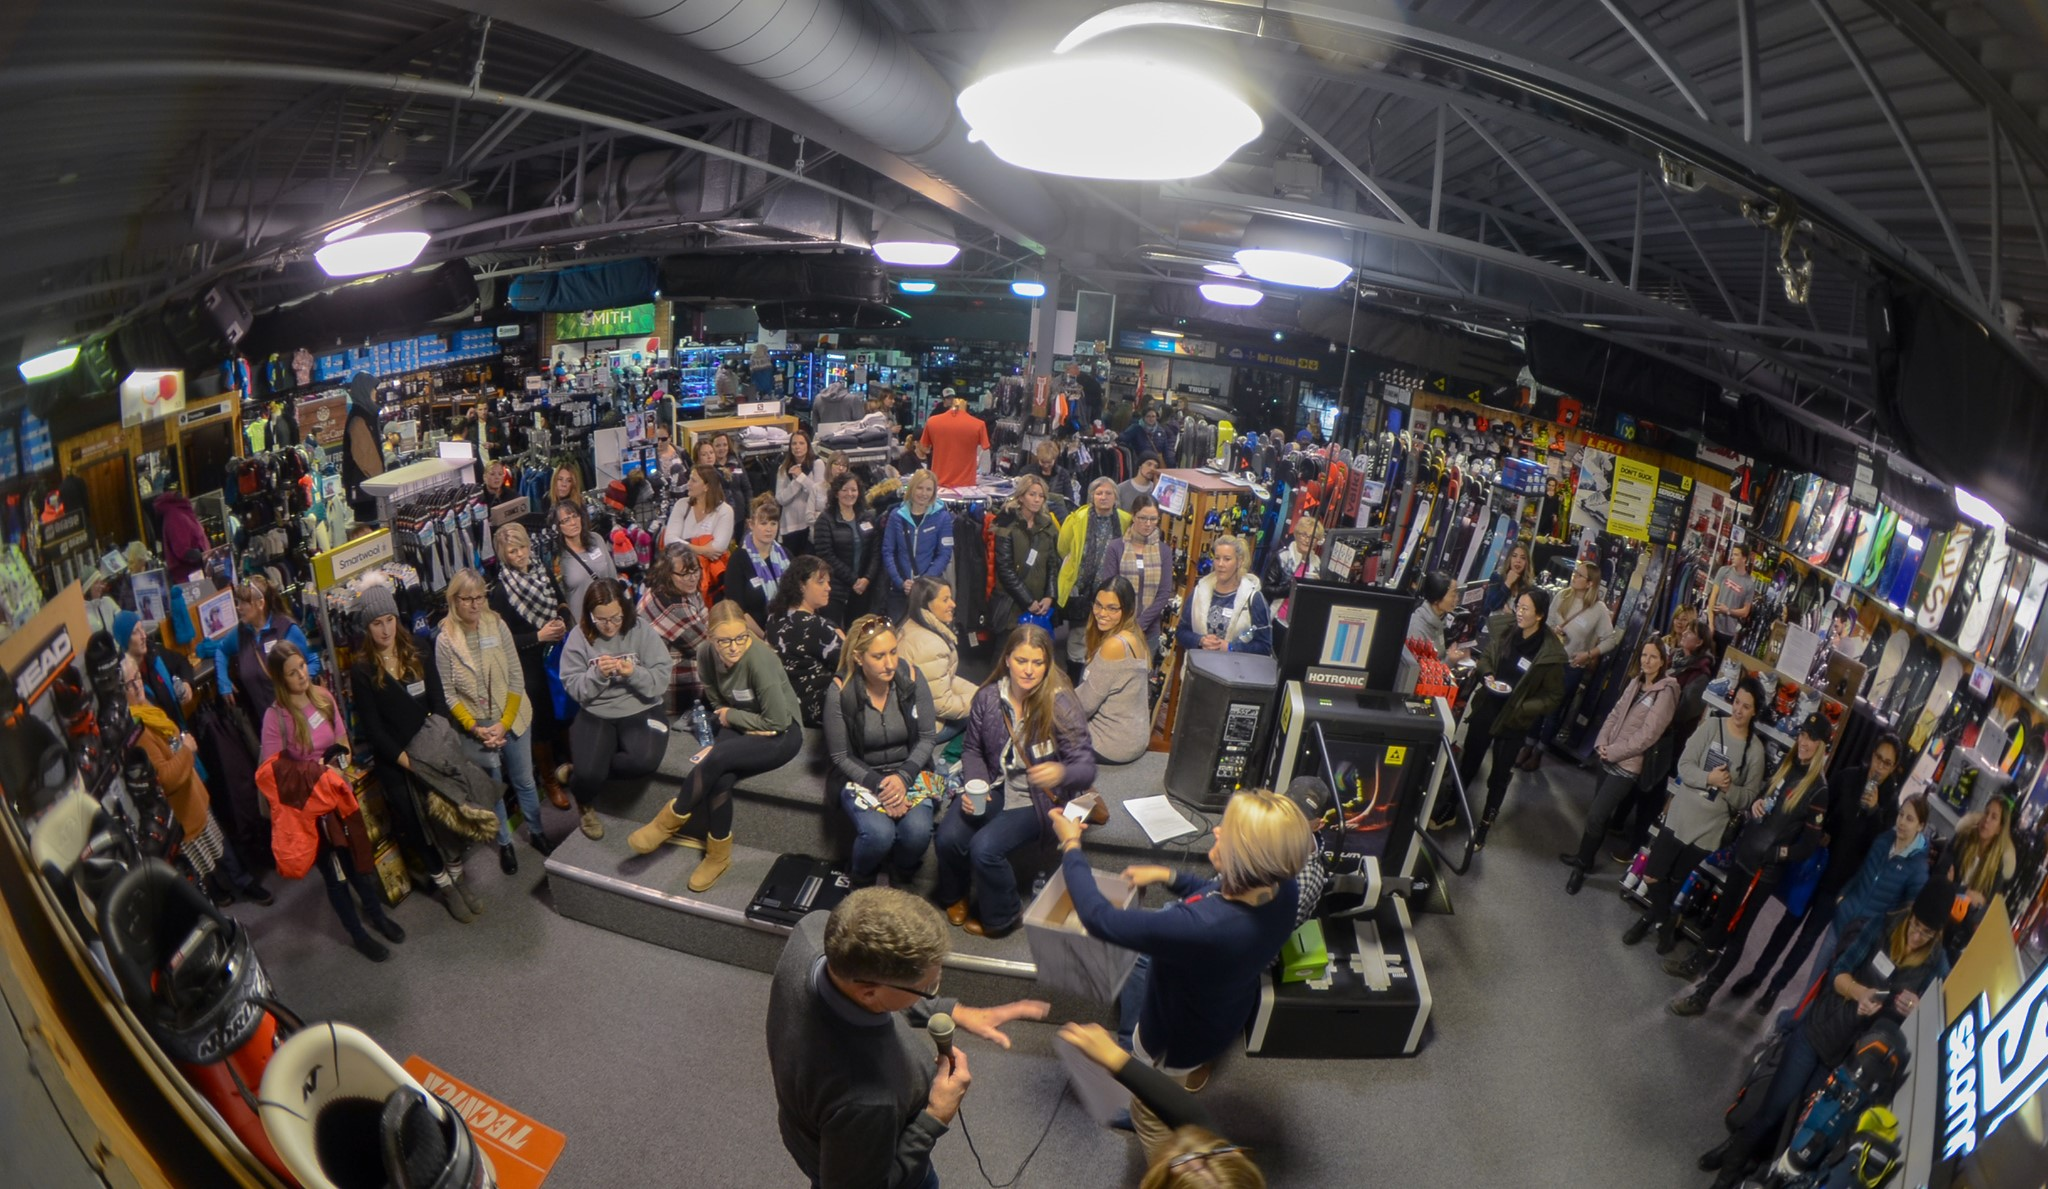
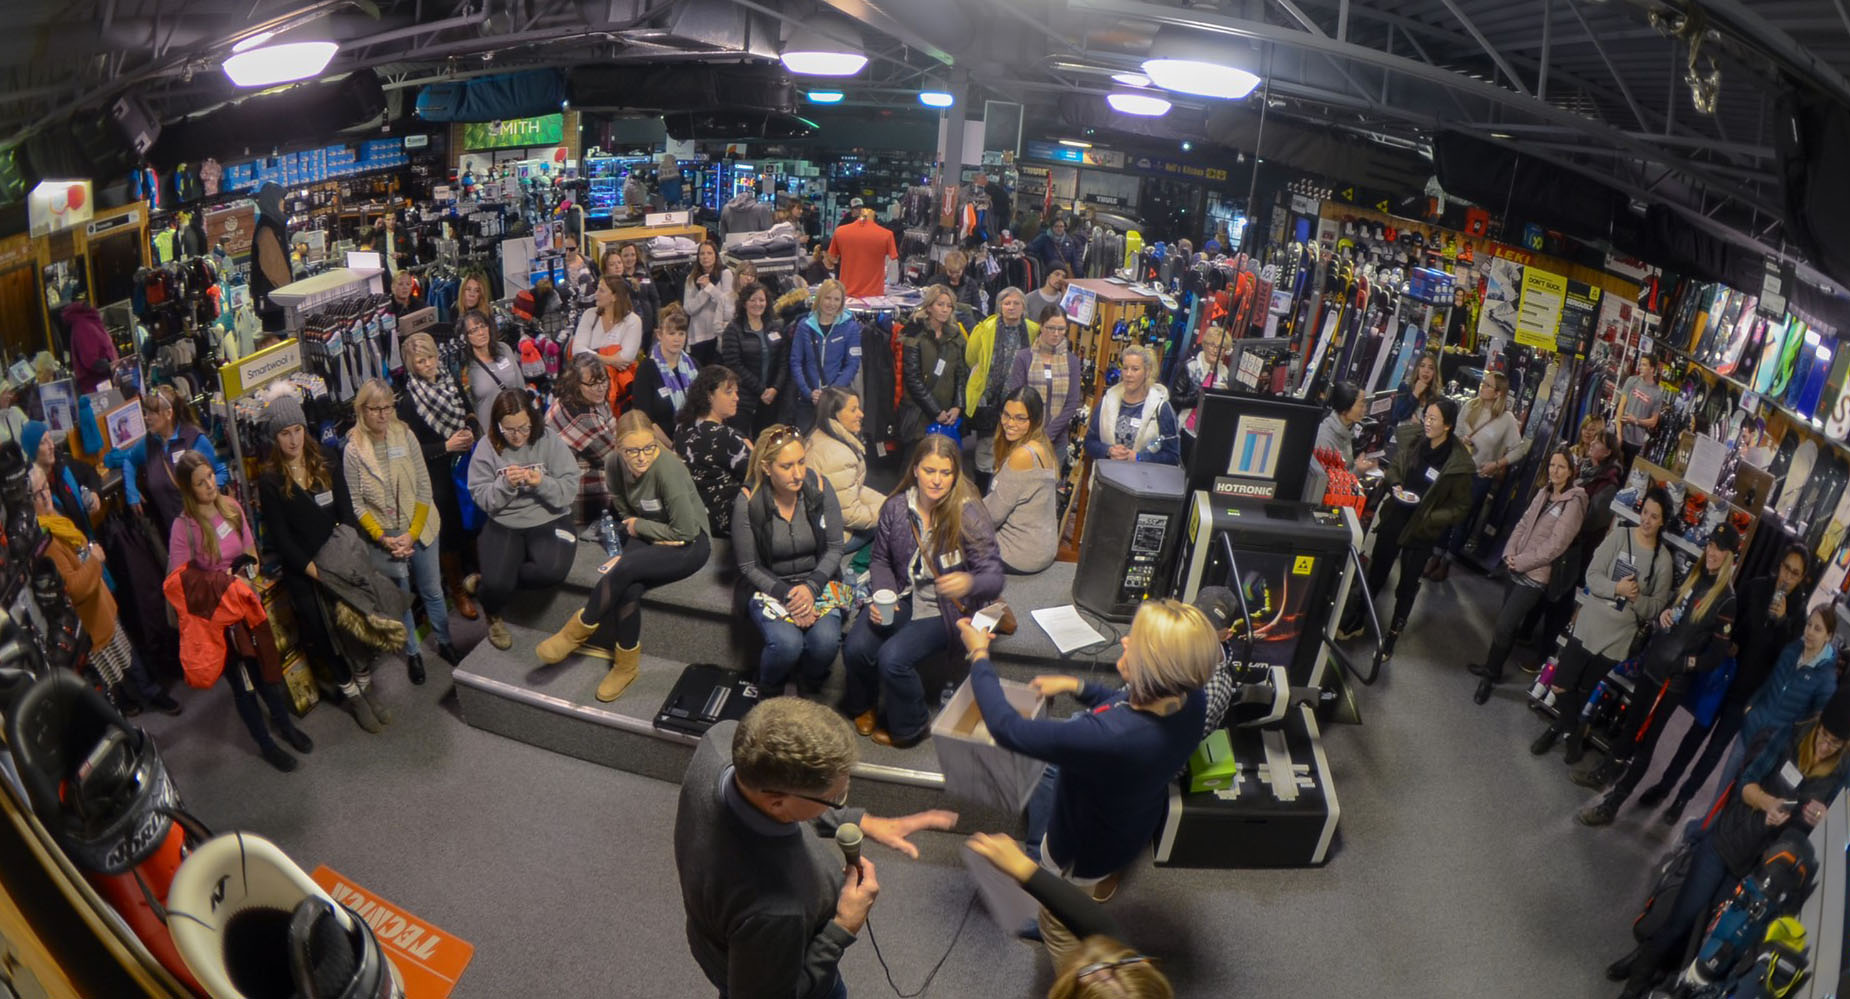
changed img for hosted events

diff --git a/template-parts/hosted-events.php b/template-parts/hosted-events.php
@@ -1,5 +1,5 @@
 <section class="landing-page-events">
-    <img src="https://pacesetter-b.web.dmitcapstone.ca/wp-content/themes/pacesetter-b/img/landingpage-events.jpg" alt="People having a good time at an event, seated around three people standing and talking.">
+    <img src="https://pacesetter-b.web.dmitcapstone.ca/wp-content/themes/pacesetter-b/img/pacesetter-event.jpg" alt="People having a good time at an event, seated around three people standing and talking.">
     <div class="landing-page-events-text">
         <h2>Store Hosted Events</h2>
         <p>Discover the latest events at our ski and snowboard store, guaranteed to ignite your winter excitement!  Plus, don't miss out on our Freestyle Skiing Workshop, where expert instructors will teach you the art of tricks and jumps. For those craving adventure, join us for our Backcountry Adventure Weekend, filled with guided tours, safety courses and many more exciting events.</p>
